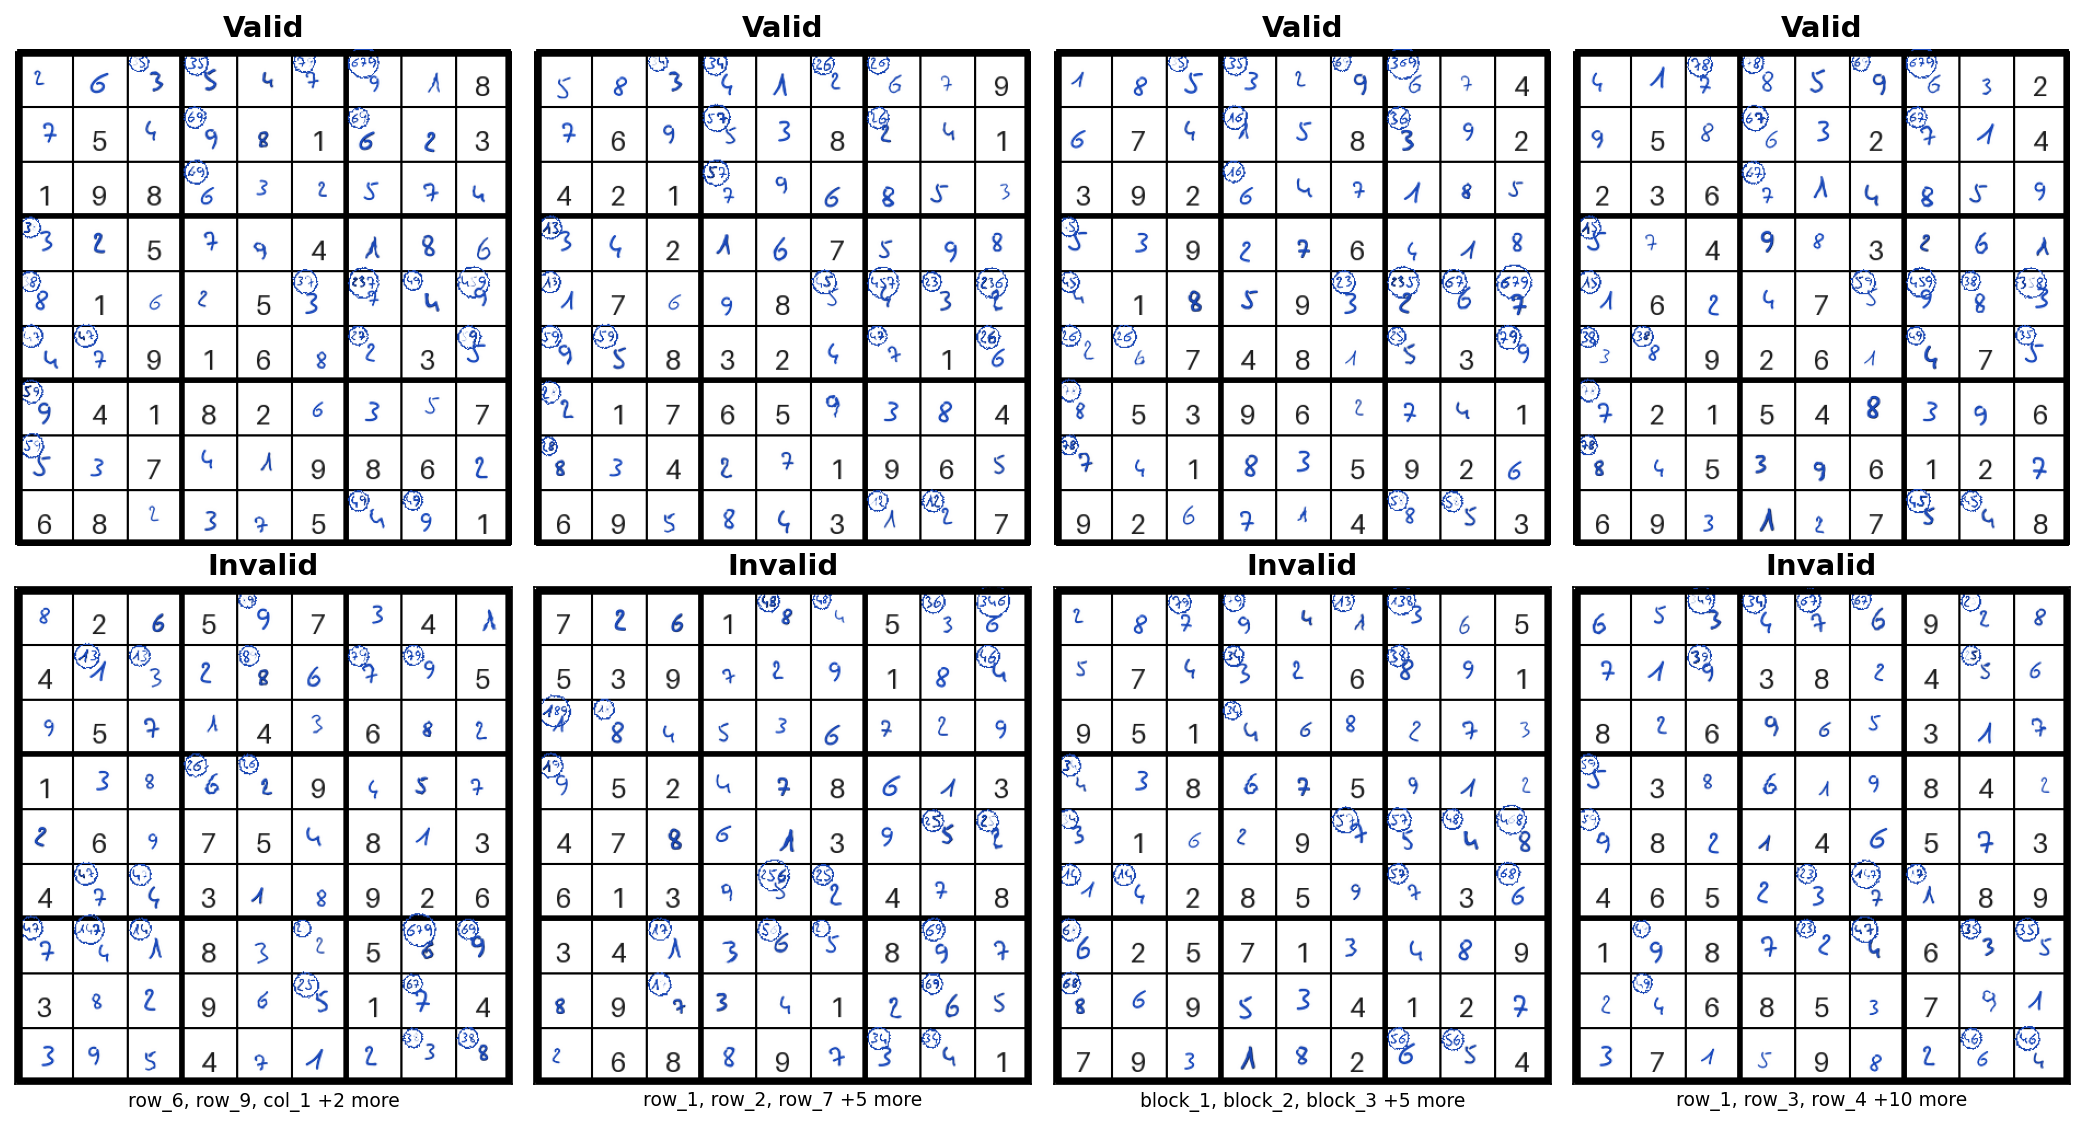
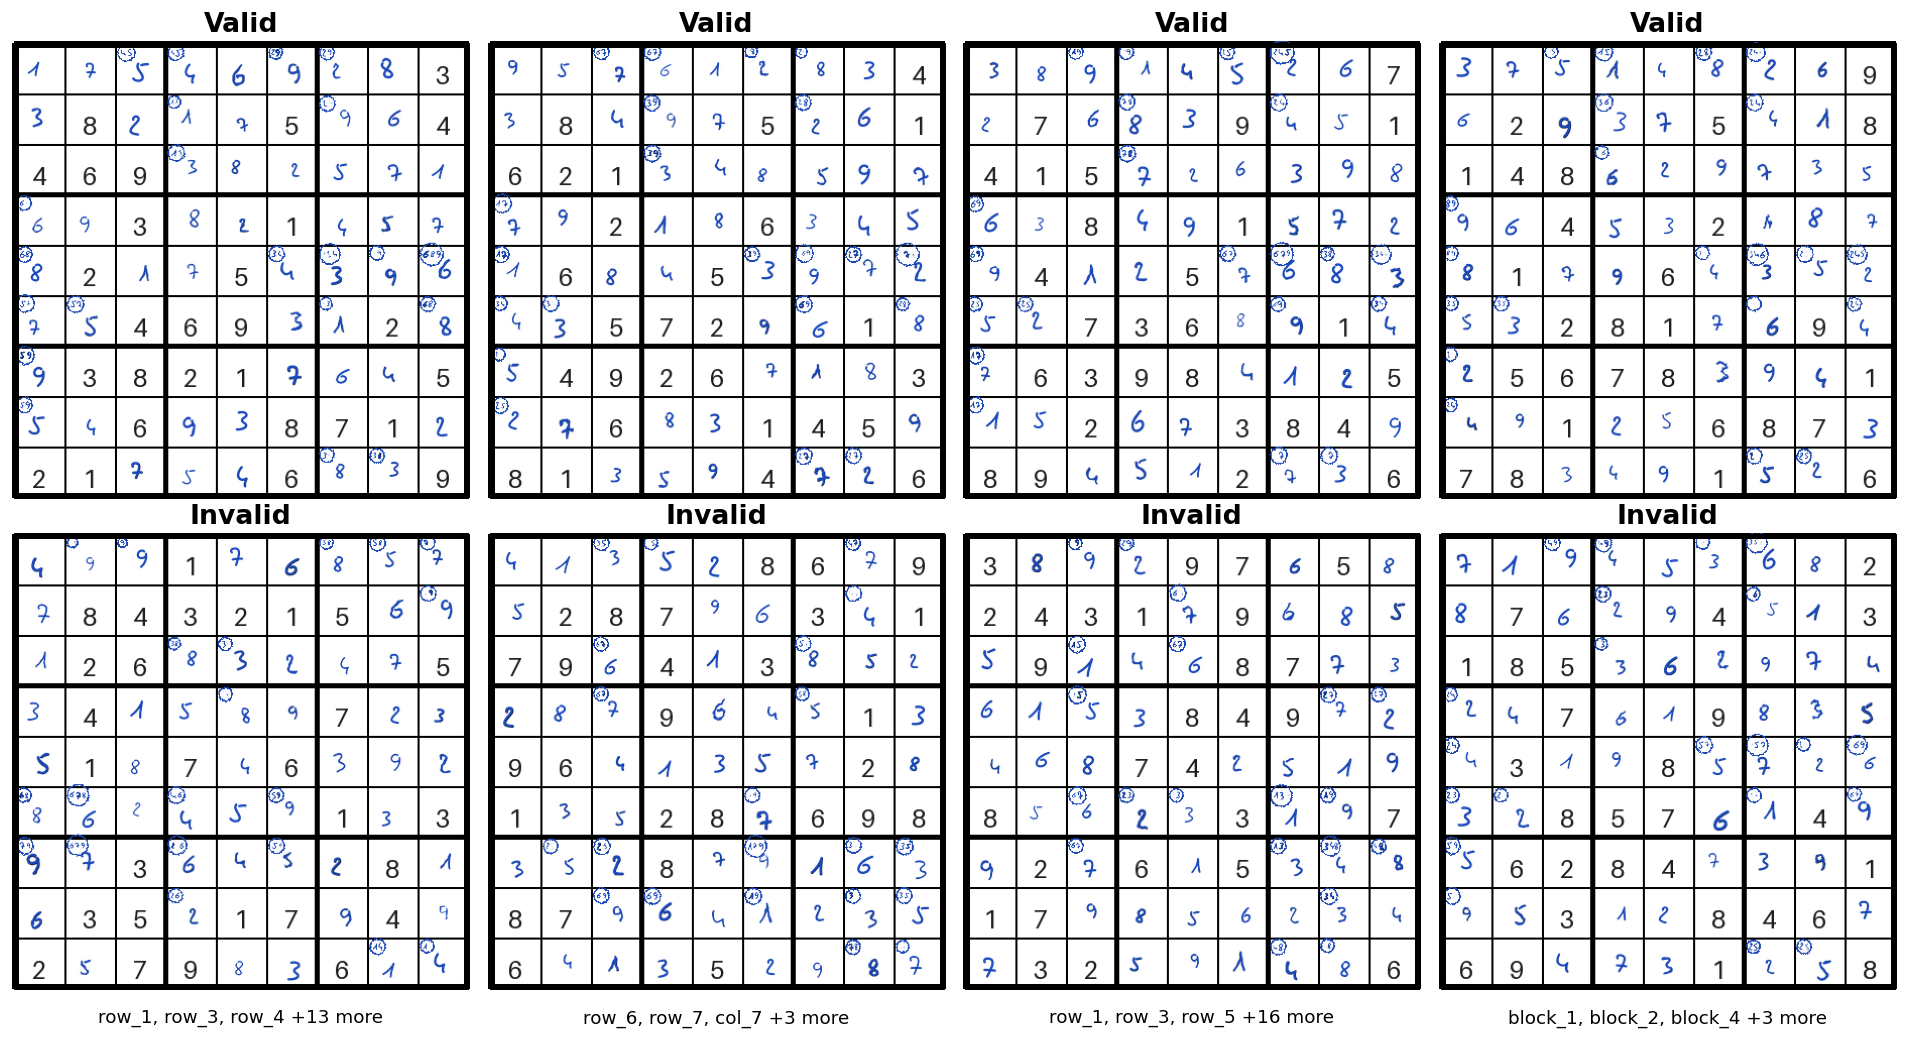
Sudoku dataset card; the README's sudoku confidence panel reads the 10 px run; sample-board assets redrawn with the current generator

diff --git a/scripts/paper/make_readme_figures.py b/scripts/paper/make_readme_figures.py
@@ -57,6 +57,7 @@ def main() -> None:
         plot_answer_reliance,
         plot_automation,
         plot_concept_report,
+        plot_confidence,
         plot_intervention_curve,
         plot_intervention_heatmap,
     )
@@ -160,6 +161,16 @@ def main() -> None:
         target_accuracy=0.95,
     )
     save(fig, "automation.png")
+
+    seed = 171
+    confidence = np.load(
+        PAPER.root
+        / f"sudoku/confidence/sudoku__arch-cbm__res-10px__seed-{seed}__confidence.npz"
+    )
+    cell = pd.read_csv(next(c for c in cells if f"seed-{seed}" in c.name))
+    threshold = float(cell.sort_values("budget")["abstention_threshold"].iloc[0])
+    fig, _ = plot_confidence(confidence["p_test"], confidence["y_test"], threshold)
+    save(fig, "confidence.png")
 
 
 if __name__ == "__main__":

diff --git a/docs/hf/sudoku_card.md b/docs/hf/sudoku_card.md
@@ -1,0 +1,76 @@
+---
+license: mit
+task_categories:
+- image-classification
+language:
+- en
+tags:
+- concept-bottleneck-models
+- interpretability
+- benchmark
+- synthetic
+size_categories:
+- 1K<n<10K
+source_datasets:
+- original
+pretty_name: Sudoku Validation
+---
+
+# Sudoku Validation
+
+Synthetic benchmark for evaluating Concept Bottleneck Models on sudoku validation. Each example is an image of a 9x9 board; the label says whether the board is valid. The 27 binary concepts encode the validity of each row, column and block.
+
+## Generated from
+
+This dataset is the **exact output** of the [`concept-benchmark`](https://pypi.org/project/concept-benchmark/) Python package, with the train/validation/test split of the paper: 1,000 boards at 50 px per cell (454 x 454 px), each written in its own handwriting, with printed starters and candidate marks. The export is `scripts/export_hf_datasets.py` in the repository.
+
+```python
+# pip install concept-benchmark==0.4.0
+from concept_benchmark.sudoku import DatasetGenerator
+dataset = DatasetGenerator(seed=171).generate_splits()
+```
+
+📓 **[Quickstart notebook](./quickstart.ipynb)** — load from the Hub and train a model, end-to-end in one notebook.
+
+🔗 [PyPI](https://pypi.org/project/concept-benchmark/) · [GitHub](https://github.com/ustunb/concept-benchmark)
+
+## Quick start (datasets library)
+
+```python
+from datasets import load_dataset
+ds = load_dataset("juliannski/sudoku")
+row = ds["train"][0]
+row["input"]  # PIL.Image
+row["concepts"]    # 27 binary values, ordered as concept_names below
+row["label"]       # 0 or 1
+row["label_name"]  # "invalid" or "valid"
+```
+
+## Schema
+
+| Field        | Type | Notes |
+|---           |---   |---    |
+| `input` | `datasets.Image()` | PNG, embedded |
+| `concepts`   | `Sequence(int8, length=27)` | binary; index order = `concept_names` below |
+| `label`      | `ClassLabel("invalid", "valid")` | |
+| `label_name` | `string` | display alias for `label` |
+
+**`concept_names`** (column order in `concepts`):
+
+```python
+['row_valid_1', 'row_valid_2', 'row_valid_3', 'row_valid_4', 'row_valid_5', 'row_valid_6', 'row_valid_7', 'row_valid_8', 'row_valid_9', 'col_valid_1', 'col_valid_2', 'col_valid_3', 'col_valid_4', 'col_valid_5', 'col_valid_6', 'col_valid_7', 'col_valid_8', 'col_valid_9', 'block_valid_1', 'block_valid_2', 'block_valid_3', 'block_valid_4', 'block_valid_5', 'block_valid_6', 'block_valid_7', 'block_valid_8', 'block_valid_9']
+```
+
+## Splits
+
+| Split        | n      |
+|---           |---     |
+| `train`      | 600 |
+| `validation` | 200 |
+| `test`       | 200 |
+
+Seed 171. 50% of the training examples are `valid`.
+
+## License
+
+MIT.
